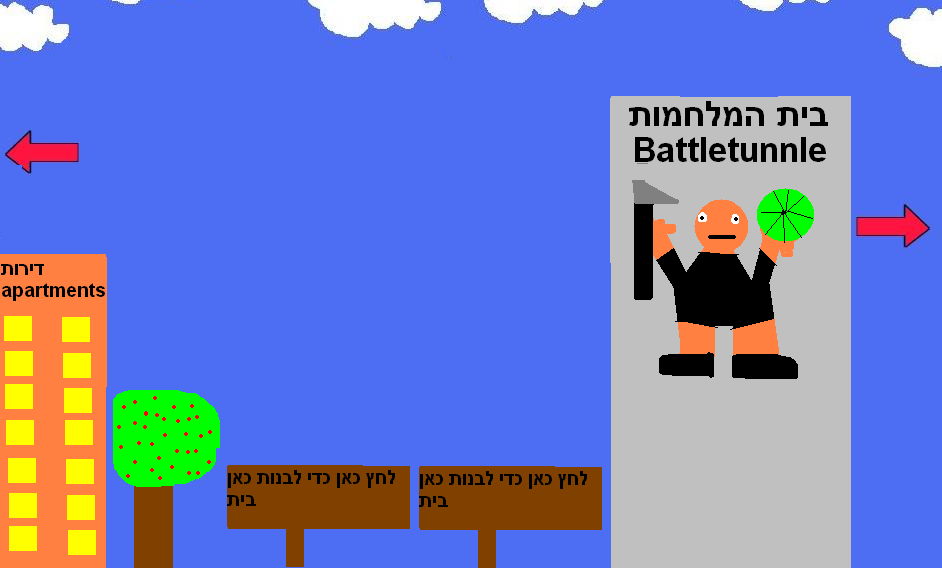
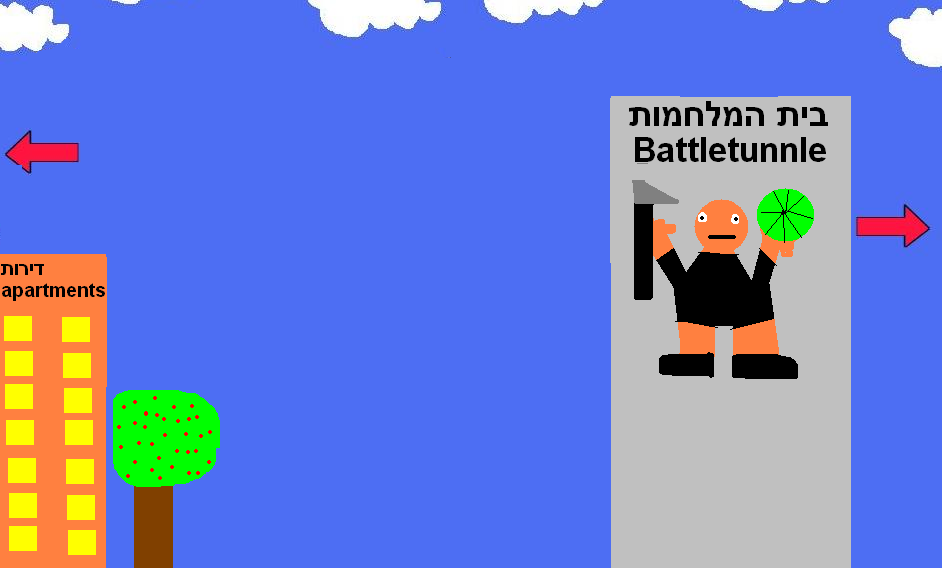
Houses

Changed region(s): [[0.2155, 0.8081, 0.6465, 1.0]]

diff --git a/system/application/controllers/Funworldlife.php b/system/application/controllers/Funworldlife.php
@@ -7,6 +7,7 @@ class Funworldlife extends MY_Controller {
 	{
 		parent::MY_Controller();	
 		$this->load->helper('url');
+		$this->load->helper('fwl_map_helper');
 		
 		$this->must_be_connected = false;
 	}
@@ -87,25 +88,21 @@ class Funworldlife extends MY_Controller {
 			if ($result != 1) {
 				return;
 			}
-			//$this->CleanstreetLibrary->addGarbage();
 			$this->global_data["garbage"] = 1;
 			$this->session->set_userdata('garbage', 1);
 			
-			$base_url = base_url();
-			$site_url = site_url();
-			
-			$additional_css[] = 
-"#Garbage1 {
-float: left;
-position: absolute;
-margin-left: 790px;
-margin-top: 20px;
-width: 40px;
-height: 40px;
-background: url('$base_url" . "images/garbage.png');
-}";
-			$additional_body[] = 
-			"<a id='Garbage1' href='$site_url/cleanstreet/collect' title='Collect Gargbage | לאסוף זבל'></a>";
+			$additional_css[] = create_additional_css(
+				"Garbage1",
+				790, 20,
+				40, 40,
+				base_url() . "images/garbage.png"
+			);
+
+			$additional_body[] = create_additional_body(
+				"Garbage1", 
+				site_url() . "/cleanstreet/collect", 
+				'Collect Gargbage | לאסוף זבל'					
+			);
 /* Trying ajax:
 "<a id='Garbage1' href='javascript:void(0)' onclick='jQuery.get(\"$site_url/cleanstreet/collect\", function(data){window.location.reload();})' title='Collect Gargbage | לאסוף זבל'></a>";
 */
@@ -114,46 +111,37 @@ background: url('$base_url" . "images/garbage.png');
 	
 	function create_additionals_for_houses(&$additional_css, &$additional_body)
 	{
-		return;
-		
 		$this->load->model('Houses');
 		$houses = $this->Houses->get_houses_for_street($this->map_name);
 		if ($houses == NULL) {
 			return;
 		}
 		
-		$base_url = base_url();
-		$site_url = site_url();
 		foreach ($houses as $house) {
+			$house_id = $house["house_id"];
 			$owner_id = $house["owner_id"];
-			$left = $house["left"];
-			$top = $house["top"];
 			
-			if ($owner == -1) {
-				// TODO: put sign
+			$css_id = "house_$house_id";
+			$width = $this->config->item("FWL_house_image_width");
+			$height = $this->config->item("FWL_house_image_height");
+			
+			if ($owner_id == -1) {
+				$additional_css[] = create_additional_css(
+					$css_id,
+					$house["left"], $house["top"],
+					$width, $height,
+					base_url() . "images/house_buy_sign.png"
+				);
+				$additional_body[] = create_additional_body(
+					$css_id, 
+					"buyhouse/$house_id", 
+					"קנה את הבית"					
+				);
 			}
 			else {
 				//TODO: put house
 			}
 		}
-		exit();
-		return;
-		
-		$left = $houses[0]["left"];
-		$top = $houses[0]["top"];
-		
-		$additional_css[] = 
-"#House {
-float: left;
-position: absolute;
-margin-left:  $left" . "px;
-margin-top: $top" . "px;
-width: 186px;
-height: 284px;
-background: url('$base_url" . "images/house_template.png');
-}";
-			$additional_body[] = 
-			"<a id='House' href='' title='Collect Gargbage | לאסוף זבל'></a>";
 	}
 }
 

diff --git a/system/application/controllers/road2.php b/system/application/controllers/road2.php
@@ -28,26 +28,6 @@ $map = array(
 	),
 	
 	array( 
-		"id" =>  "buyhouse", 
-		"href" => "buyhouse", 
-		"title" => "Click Her To Bulid A House | לחץ כאן כדי לבנות בית",
-		"left" => 418, 
-		"top" => 461, 
-		"width" => 183, 
-		"height" => 107 
-	),
-	
-	array( 
-		"id" =>  "buyhouse2", 
-		"href" => "buyhouse", 
-		"title" => "Click Her To Bulid A House | לחץ כאן כדי לבנות בית",
-		"left" => 227, 
-		"top" => 461, 
-		"width" => 183, 
-		"height" => 107 
-	),
-	
-	array( 
 		"id" =>  "apartments", 
 		"href" => "apartments", 
 		"title" => "דירות | apartments",

diff --git a/system/application/helpers/fwl_map_helper.php b/system/application/helpers/fwl_map_helper.php
@@ -1,0 +1,24 @@
+<?php  if ( ! defined('BASEPATH')) exit('No direct script access allowed');
+
+if ( ! function_exists('create_additional_css'))
+{
+	function create_additional_css($id, $left, $top, $width, $height, $image)
+	{
+		return
+"#$id {
+float: left;
+position: absolute;
+margin-left:  $left" . "px;
+margin-top: $top" . "px;
+width: $width" . "px;
+height: $height" . "px;
+background: url('$image');
+}";
+	}
+	
+	function create_additional_body($id, $href, $title)
+	{
+		return
+"<a id='$id' href='$href' title='$title'></a>";
+	}
+}

diff --git a/system/application/config/funworldlife_settings.php b/system/application/config/funworldlife_settings.php
@@ -7,4 +7,7 @@
 	
 	$config["FWL_clean_street_chance"] = 5;
 	$config["FWL_clean_street_money"] = 3;
+	
+	$config["FWL_house_image_width"] = 186;
+	$config["FWL_house_image_height"] = 284;
 ?>
